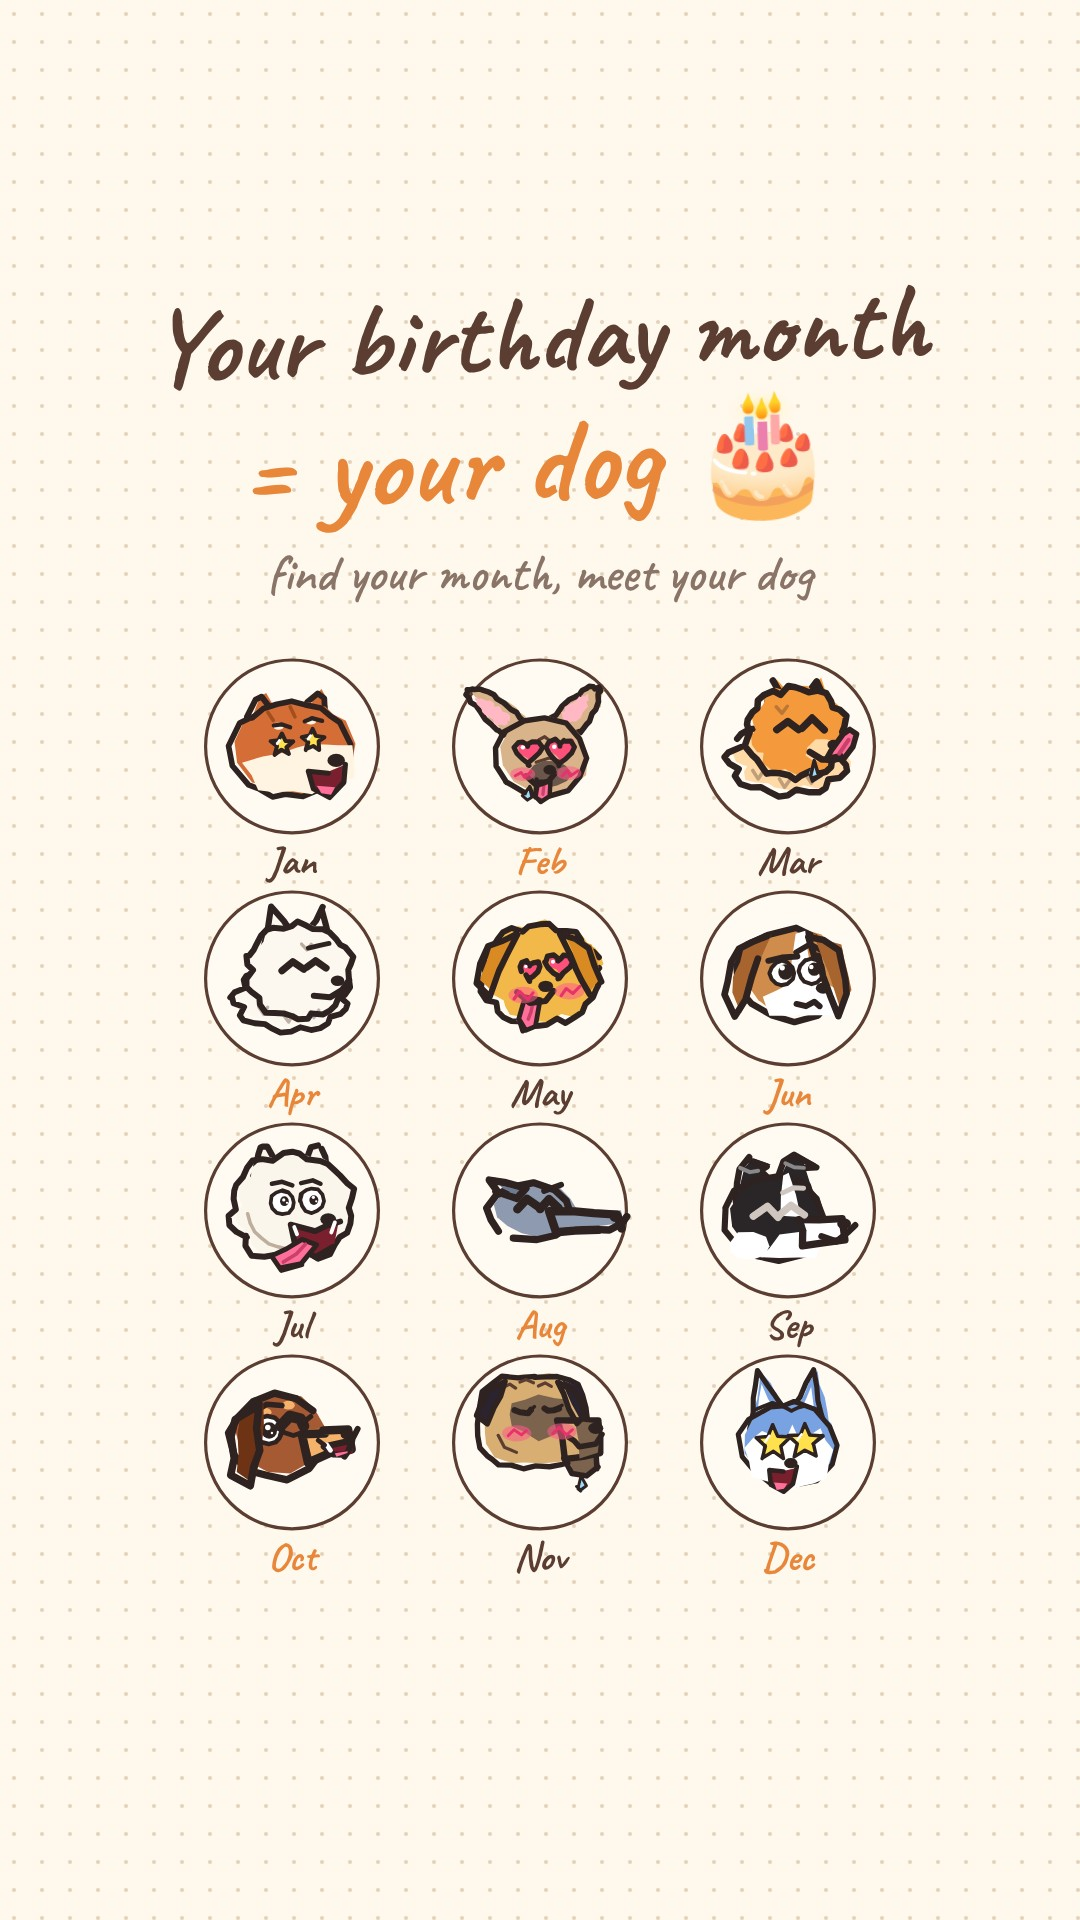
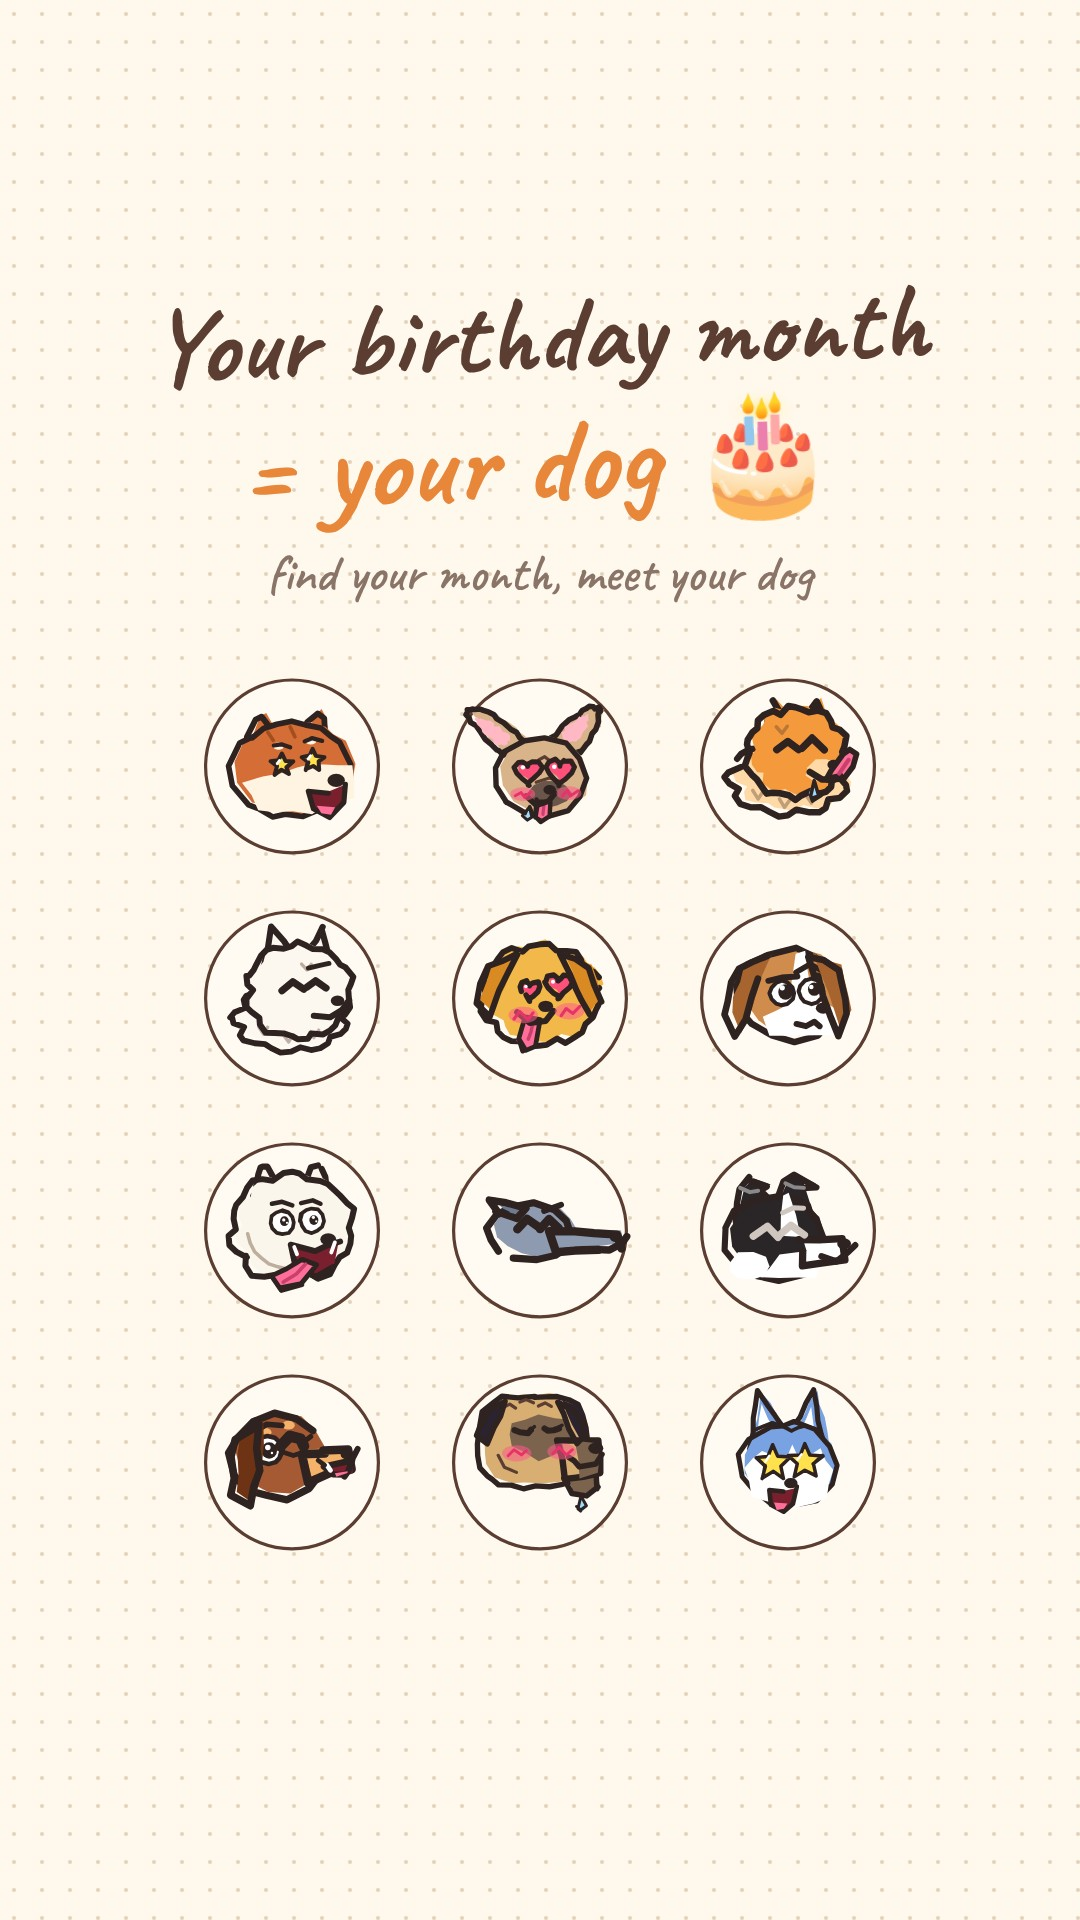
Marketing: birthday Reel end card (follow us, play at doodledoggo.app), cover without month names
Claude-Session: https://claude.ai/code/session_01RbDn8fDrvJ9BSr31nohXvJ

Changed region(s): [[0.3972, 0.3438, 0.5806, 0.8438], [0.6417, 0.3438, 0.825, 0.8438], [0.1833, 0.3438, 0.3667, 0.8125]]

diff --git a/brand/instagram/launch/birthday_reel/build_birthday.js b/brand/instagram/launch/birthday_reel/build_birthday.js
@@ -1,5 +1,5 @@
-// "Your birthday month = your dog" Reel (1080 x 1920, 30 fps, 30 s): a title card, then one 2.2 s scene per month (a game place in the
-// right season, a dog in an outfit: it walks in, strikes a pose with one face, hops into a second pose and face), then a grid of all 12.
+// "Your birthday month = your dog" Reel (1080 x 1920, 30 fps, 32.8 s): a title card, then one 2.2 s scene per month (a game place in the
+// right season, a dog in an outfit: it walks in, strikes a pose with one face, hops into a second pose and face), then a grid of all 12 and an end card (follow us, play at doodledoggo.app).
 // Real art only (PawArt.dog with outfit and expr, PawArt.scene), no game UI. No Japanese text (owner, 21 Oct 2026). Music: the game's own engine (mods/pawaudio.js).
 //   NODE_PATH=/opt/node-tools/node_modules node brand/instagram/launch/birthday_reel/build_birthday.js <workdir>   (ONLY=stills: key frames only)
 // Output next to this file: doodle-doggo-birthday-dog-reel.mp4, birthday-reel-cover.jpg.
@@ -36,7 +36,8 @@ const M = [
   { m: 'December', key: 'husky', place: 'hilltop', env: { season: 'winter', weather: 'snow', time: 'dusk' }, outfit: { head: 'Reindeer Antlers', neck: 'Red Bandana' }, enter: 'walk', a: ['howl', null], b: ['sit', 'wow'], line: 'loud and loving' },
 ];
 const NAME = Object.fromEntries(PA.DOGS.map((d) => [d.key, d.name])), BREED = Object.fromEntries(PA.DOGS.map((d) => [d.key, d.breed]));
-const INTRO = 2.0, STEP = 2.2, OUTRO = 1.6, T = INTRO + M.length * STEP + OUTRO, SLIDE = 0.22; // 30 s
+const INTRO = 2.0, STEP = 2.2, OUTRO = 1.6, END = 2.8, T = INTRO + M.length * STEP + OUTRO + END, SLIDE = 0.22; // 32.8 s
+const T_OUT = INTRO + M.length * STEP, T_END = T_OUT + OUTRO; // the "which one are you?" grid, then the end card
 const FEET = 1360, SCX = 540;
 
 (async () => {
@@ -63,6 +64,8 @@ const FEET = 1360, SCX = 540;
     const k = Math.min(...Object.values(bbs).map((bb) => Math.min(780 / bb[2], 560 / bb[3]))); // one scale for all of this dog's poses
     S.push({ ...s, bg, bbs, k });
   }
+  // the end card's Noodle: no outfit, happy (S[12], drawn by dogAt like the months)
+  { const bb = await bbox(PA.dog('dachs', { pose: 'happy', anim: false, facing: 'right' })); S.push({ key: 'dachs', bbs: { happy: bb }, k: Math.min(640 / bb[2], 460 / bb[3]) }); }
   const cache = {};
   // the art draws each pose three times (.pa-d-f0/1/2, the game's "line boil", shown one at a time three times a second): keep exactly one
   const dogAt = (i, pose, expr, fr, cx, lift = 0, sx = 1, sy = 1, rot = 0) => {
@@ -99,13 +102,30 @@ const FEET = 1360, SCX = 540;
     return g;
   };
   // the grid of all 12 (intro and outro)
-  const grid = (op, pick = -1) => M.map((s, i) => { const c = i % 3, r = Math.floor(i / 3), cx = 230 + c * 310, cy = 720 + r * 290, on = pick < 0 || pick === i;
-    return `<g opacity="${on ? op : op * 0.35}">${head(s.key, s.b[1] || s.a[1] || 'hearts', cx, cy, 108)}${txt(s.m.slice(0, 3), cx, cy + 160, 50, { fill: i % 2 ? ORANGE : INK })}</g>`; }).join('');
+  const grid = (op, pick = -1, labels = true) => M.map((s, i) => { const c = i % 3, r = Math.floor(i / 3), cx = 230 + c * 310, cy = 720 + r * 290, on = pick < 0 || pick === i;
+    return `<g opacity="${on ? op : op * 0.35}">${head(s.key, s.b[1] || s.a[1] || 'hearts', cx, cy, 108)}${labels ? txt(s.m.slice(0, 3), cx, cy + 160, 50, { fill: i % 2 ? ORANGE : INK }) : ''}</g>`; }).join('');
   const intro = (t) => { let g = paperBg + txt('Your birthday month', W / 2, 300, 108, { rot: -2 }) + txt('= your dog 🎂', W / 2, 430, 120, { rot: -2, fill: ORANGE })
     + txt('find your month, meet your dog', W / 2, 520, 52, { fill: MUTED, w: 600 }) + grid(eo3(seg(t, 0.1, 0.6)));
     g += `<g opacity="${eo3(seg(t, 0.6, 0.9))}" transform="rotate(-3 540 1885)"><rect x="300" y="1830" width="480" height="80" rx="40" fill="#FFE3A1"/><rect x="300" y="1830" width="480" height="80" rx="40" fill="none" stroke="${INK}" stroke-width="4"/>${txt('find your month 👇', W / 2, 1886, 52)}</g>`;
     return g; };
   const outro = (t) => paperBg + txt('Which one are you?', W / 2, 330, 112, { rot: -2 }) + txt('comment your month 👇', W / 2, 450, 70, { rot: -2, fill: ORANGE }) + grid(eo3(seg(t, 0, 0.35)));
+  // the end card: follow us, Noodle wagging with heart eyes (one hop), and where to play; everything above the Reels caption area
+  const popIn = (t, a, b) => { const q = seg(t, a, b); return q <= 0 ? 0 : eoB(q); };
+  const endCard = (t) => {
+    const fr = Math.floor(t * 3) % 3, breath = 1 + 0.012 * Math.sin(t * 2 * Math.PI * 1.3);
+    const H0 = 1.1, H1 = 1.42, q = seg(t, H0, H1), air = t > H0 && t < H1, lift = air ? Math.sin(Math.PI * q) * 60 : 0;
+    const k = air ? -0.6 * Math.sin(Math.PI * q) : squash(t, H1) + (t < H0 ? squash(t, H0) : 0);
+    const sc = (v, x, y) => `transform="translate(${x} ${y}) scale(${f1(v * 1000) / 1000}) translate(${-x} ${-y})"`;
+    let g = paperBg;
+    g += `<g ${sc(popIn(t, 0.05, 0.4), 540, 330)}>${txt('follow us on Instagram &amp; X', W / 2, 330, 78, { rot: -2 })}</g>`;
+    g += `<g ${sc(popIn(t, 0.18, 0.55), 540, 470)}>${txt('@doodledoggo.app', W / 2, 470, 124, { rot: -2, fill: ORANGE })}</g>`;
+    for (let j = 0; j < 5; j++) { const ht = t - 0.5 - j * 0.38; if (ht < 0) continue; const y = 1010 - ht * 260, x = 540 + [-170, 150, -60, 210, -230][j] + Math.sin(ht * 5 + j) * 14;
+      g += txt('♥', f1(x), f1(y), 54 + (j % 3) * 10, { fill: PINK, op: f1(clamp(1 - ht / 1.6) * 100) / 100 }); }
+    g += `<g opacity="${eo3(seg(t, 0.1, 0.4))}" transform="translate(0 -230)">${dogAt(12, 'happy', 'hearts', fr, 540, lift, 1 + 0.05 * k, (1 - 0.08 * k) * breath)}</g>`;
+    g += `<g ${sc(popIn(t, 0.45, 0.8), 540, 1290)}><g transform="rotate(-2 540 1290)"><rect x="120" y="1218" width="840" height="150" rx="75" fill="#FFE3A1"/><rect x="120" y="1218" width="840" height="150" rx="75" fill="none" stroke="${INK}" stroke-width="5"/>`
+      + `${txt(`<tspan font-size="66" fill="${MUTED}">play at </tspan>doodledoggo.app`, W / 2, 1318, 92)}</g></g>`;
+    return g;
+  };
 
   const frameAt = (t) => {
     if (t < INTRO) { // the title, then the grid slides away left as January comes in
@@ -113,6 +133,8 @@ const FEET = 1360, SCX = 540;
       const q = eo3(seg(t, INTRO - SLIDE, INTRO)); return `<g transform="translate(${f1(-W * q)} 0)">${intro(t)}</g>` + scene(0, 0, W * (1 - q));
     }
     const tm = t - INTRO, i = Math.floor(tm / STEP);
+    if (t >= T_END) return endCard(t - T_END);
+    if (t > T_END - SLIDE) { const q = eo3(seg(t, T_END - SLIDE, T_END)); return `<g transform="translate(${f1(-W * q)} 0)">${outro(t - T_OUT)}</g><g transform="translate(${f1(W * (1 - q))} 0)">${endCard(0)}</g>`; }
     if (i >= M.length) { const to = tm - M.length * STEP; return outro(to); }
     const u = tm - i * STEP;
     if (u > STEP - SLIDE) { const q = eo3(seg(u, STEP - SLIDE, STEP)); const next = i + 1 < M.length ? scene(i + 1, 0, W * (1 - q)) : `<g transform="translate(${f1(W * (1 - q))} 0)">${outro(0)}</g>`; return scene(i, u, -W * q) + next; }
@@ -122,9 +144,9 @@ const FEET = 1360, SCX = 540;
 
   // the cover: the title and the grid (the profile grid shows the middle 1080 x 1440, y 240..1680)
   await shot(page(paperBg + txt('Your birthday month', W / 2, 370, 108, { rot: -2 }) + txt('= your dog 🎂', W / 2, 500, 120, { rot: -2, fill: ORANGE })
-    + txt('find your month, meet your dog', W / 2, 590, 52, { fill: MUTED, w: 600 }) + `<g transform="translate(540 660) scale(0.8) translate(-540 -612)">${grid(1)}</g>`), path.join(OUT, 'birthday-reel-cover.jpg'), 'jpeg');
+    + txt('find your month, meet your dog', W / 2, 590, 52, { fill: MUTED, w: 600 }) + `<g transform="translate(540 680) scale(0.8) translate(-540 -612)">${grid(1, -1, false)}</g>`), path.join(OUT, 'birthday-reel-cover.jpg'), 'jpeg');
   if (process.env.ONLY === 'stills') {
-    const ts = process.env.STRIP ? process.env.STRIP.split(',').map(Number) : [1.0, INTRO + 0.5, INTRO + 1.0, INTRO + 1.9, INTRO + 2.1, ...M.map((_, i) => INTRO + i * STEP + 1.8), T - 0.5];
+    const ts = process.env.STRIP ? process.env.STRIP.split(',').map(Number) : [1.0, INTRO + 0.5, INTRO + 1.0, INTRO + 1.9, INTRO + 2.1, ...M.map((_, i) => INTRO + i * STEP + 1.8), T_OUT + 1.0, T_END - 0.1, T_END + 0.3, T_END + 1.25, T - 0.3];
     for (const [j, t] of ts.entries()) await shot(page(frameAt(t)), path.join(WORK, `still${String(j).padStart(2, '0')}.png`));
     await b.close(); console.log('stills done'); return;
   }
@@ -133,12 +155,12 @@ const FEET = 1360, SCX = 540;
 
   // music: the game's own engine, the Town Square by day, with a sparkle as the months begin; a soft pop on every month change
   await p.goto('about:blank'); await p.addScriptTag({ path: path.join(root, 'mods', 'pawaudio.js') });
-  const r = await p.evaluate(async (T) => { const res = await window.PawAudio._render({ seconds: T + 0.3, wav: true, vols: { master: 0.85, music: 0.66, ambience: 0.08 },
-    segments: [{ at: 0, ctx: { place: 'square', time: 'day', weather: 'sunny' } }], stingers: [{ at: 1.9, name: 'sparkle' }, { at: T - 1.6, name: 'discover' }] }); return { wav: res.wav }; }, T);
+  const r = await p.evaluate(async ([T, T_OUT, T_END]) => { const res = await window.PawAudio._render({ seconds: T + 0.3, wav: true, vols: { master: 0.85, music: 0.66, ambience: 0.08 },
+    segments: [{ at: 0, ctx: { place: 'square', time: 'day', weather: 'sunny' } }], stingers: [{ at: 1.9, name: 'sparkle' }, { at: T_OUT, name: 'discover' }, { at: T_END + 0.1, name: 'sparkle' }] }); return { wav: res.wav }; }, [T, T_OUT, T_END]);
   fs.writeFileSync(path.join(WORK, 'music.wav'), Buffer.from(r.wav, 'base64'));
   await b.close();
   const SR = 44100, n = Math.ceil(T * SR), pop = new Float32Array(n);
-  for (let i = 0; i <= M.length; i++) { const t0 = INTRO + i * STEP - 0.05; for (let j = 0; j < 0.09 * SR; j++) { const tt = j / SR, idx = Math.floor(t0 * SR) + j; if (idx < n) pop[idx] += 0.3 * Math.sin(2 * Math.PI * (700 - 3000 * tt) * tt) * Math.exp(-40 * tt); } }
+  for (let i = 0; i <= M.length + 1; i++) { const t0 = (i > M.length ? T_END : INTRO + i * STEP) - 0.05; for (let j = 0; j < 0.09 * SR; j++) { const tt = j / SR, idx = Math.floor(t0 * SR) + j; if (idx < n) pop[idx] += 0.3 * Math.sin(2 * Math.PI * (700 - 3000 * tt) * tt) * Math.exp(-40 * tt); } }
   const pcm = Buffer.alloc(44 + n * 2); pcm.write('RIFF', 0); pcm.writeUInt32LE(36 + n * 2, 4); pcm.write('WAVEfmt ', 8); pcm.writeUInt32LE(16, 16); pcm.writeUInt16LE(1, 20); pcm.writeUInt16LE(1, 22);
   pcm.writeUInt32LE(SR, 24); pcm.writeUInt32LE(SR * 2, 28); pcm.writeUInt16LE(2, 32); pcm.writeUInt16LE(16, 34); pcm.write('data', 36); pcm.writeUInt32LE(n * 2, 40);
   for (let i = 0; i < n; i++) pcm.writeInt16LE(Math.max(-32767, Math.min(32767, Math.round(pop[i] * 32767))), 44 + i * 2);

diff --git a/docs/marketing/BIRTHDAY_DOG_REEL.md b/docs/marketing/BIRTHDAY_DOG_REEL.md
@@ -4,8 +4,8 @@ Made 21 Oct 2026 (owner's idea). English only: no Japanese text in the video, th
 
 | File | What |
 |---|---|
-| `doodle-doggo-birthday-dog-reel.mp4` | 1080 x 1920, 30 fps, 30 s, with the game's music. |
-| `birthday-reel-cover.jpg` | The cover: "Your birthday month = your dog 🎂", "find your month, meet your dog", over a grid of the 12 dog faces with their months. Everything sits in the grid's 3:4 crop. |
+| `doodle-doggo-birthday-dog-reel.mp4` | 1080 x 1920, 30 fps, 32.8 s, with the game's music. |
+| `birthday-reel-cover.jpg` | The cover: "Your birthday month = your dog 🎂", "find your month, meet your dog", over a grid of the 12 dog faces, no month names (owner, 21 Oct 2026: the months are the surprise in the video). Everything sits in the grid's 3:4 crop. |
 | `build_birthday.js` | Remake: `NODE_PATH=/opt/node-tools/node_modules node brand/instagram/launch/birthday_reel/build_birthday.js <workdir>` (about 7 minutes; `ONLY=stills` renders key frames and the cover only). |
 
 ## What is in it
@@ -13,6 +13,8 @@ Made 21 Oct 2026 (owner's idea). English only: no Japanese text in the video, th
 - **0–2 s:** the title, "Your birthday month = your dog 🎂", "find your month, meet your dog", the 12 faces pop in, "find your month 👇".
 - **2–28.4 s:** one 2.2-second scene per month. The scene slides in, the dog walks in, strikes a pose with one face, then hops into a second pose and face. A "born in" month card sits at the top, and a name card at the bottom: the dog's name and "you are …".
 - **28.4–30 s:** "Which one are you? comment your month 👇" over the grid of all 12.
+- **30–32.8 s, the end card (owner, 21 Oct 2026):** "follow us on Instagram & X", "@doodledoggo.app", Noodle wagging with heart eyes and one happy hop, hearts floating up, and "play at doodledoggo.app" in a yellow pill. All of it sits above the Reels caption area.
+- The dogs move smoothly (21 Oct 2026): one line-boil drawing at a time, a bouncy trot in, a springy squash and stretch, a hop into the second pose, gentle breathing.
 - Real art only: `PawArt.dog` with outfits and v2.13 faces, `PawArt.scene` in the right season (snow, rain, spring, Halloween). No game buttons or menus.
 - Sound: the game's own music (`mods/pawaudio.js`, the Town Square by day), a soft pop at each month change, levelled to -16 LUFS.
 
@@ -70,4 +72,4 @@ Your birthday month = your dog 🎂🐶 Find yours, then adopt one for real in D
 Notes:
 - The first line is what people see before "more" (about 125 characters), so the hook is in the first sentence.
 - Run A and B as two ads in one ad set for 3–4 days, then keep the one with the lower cost per link click.
-- An ad needs the game named in the video itself, because most viewers never read the caption: add the end line "all 35 dogs live in a free game · @doodledoggo.app" before running it as an ad.
+- The end card names the account and doodledoggo.app, so the video works as an ad as it is.
